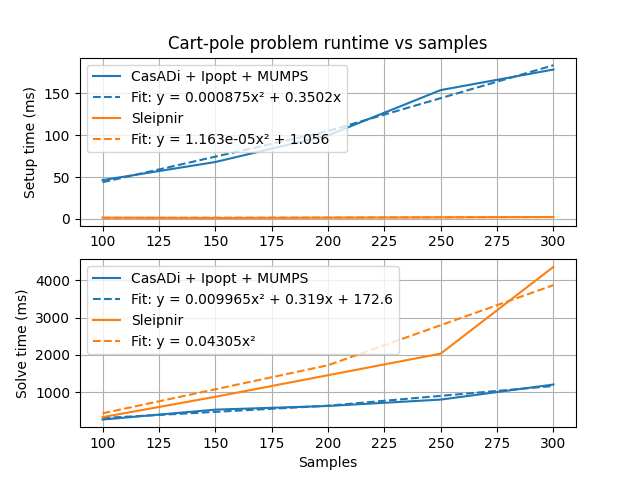
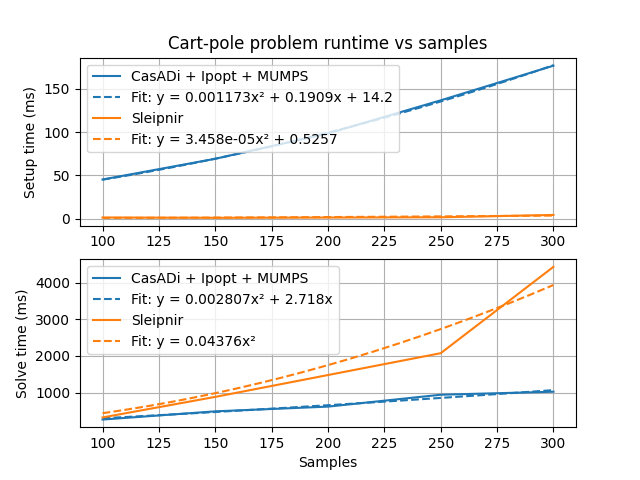
Rerun scalability benchmarks with constant autodiff for flywheel

diff --git a/benchmarks/scalability/util.hpp b/benchmarks/scalability/util.hpp
@@ -32,6 +32,7 @@ constexpr double to_ms(const std::chrono::duration<Rep, Period>& duration) {
 ///
 /// @tparam Problem The optimization problem's type (casadi::Opti or
 ///     slp::Problem).
+/// @tparam IsQuadratic Whether the problem is quadratic.
 /// @param filename Results CSV filename.
 /// @param diagnostics Whether to enable diagnostic prints.
 /// @param T The time horizon of the optimization problem.
@@ -43,7 +44,7 @@ constexpr double to_ms(const std::chrono::duration<Rep, Period>& duration) {
 ///     problem.
 /// @param setup A function that takes a time horizon and number of samples and
 ///     returns an optimization problem instance.
-template <typename Problem>
+template <typename Problem, bool IsQuadratic = false>
 int run_benchmarks_and_log(
     std::string_view filename, bool diagnostics,
     std::chrono::duration<double> T, std::span<int> sample_sizes_to_test,
@@ -70,12 +71,22 @@ int run_benchmarks_and_log(
     bool success = true;
     auto solve_start_time = std::chrono::steady_clock::now();
     if constexpr (std::same_as<Problem, casadi::Opti>) {
-      if (diagnostics) {
-        problem.solver("ipopt");
-      } else {
-        problem.solver("ipopt", {{"expand", true}, {"print_time", 0}},
-                       {{"print_level", 0}, {"sb", "yes"}});
+      casadi::Dict plugin_options{{"expand", true}};
+      casadi::Dict solver_options;
+
+      if constexpr (IsQuadratic) {
+        solver_options["hessian_constant"] = "yes";
+        solver_options["jac_c_constant"] = "yes";
+        solver_options["jac_d_constant"] = "yes";
       }
+
+      if (!diagnostics) {
+        plugin_options["print_time"] = 0;
+        solver_options["print_level"] = 0;
+        solver_options["sb"] = "yes";
+      }
+
+      problem.solver("ipopt", plugin_options, solver_options);
       problem.solve();
     } else {
       success = problem.solve({.diagnostics = diagnostics}) ==

diff --git a/benchmarks/scalability/flywheel/main.cpp b/benchmarks/scalability/flywheel/main.cpp
@@ -36,12 +36,12 @@ int main(int argc, const char* argv[]) {
   std::println("Solving flywheel problem from N = {} to N = {}.",
                sample_sizes_to_test.front(), sample_sizes_to_test.back());
   if (run_casadi) {
-    run_benchmarks_and_log<casadi::Opti>(
+    run_benchmarks_and_log<casadi::Opti, true>(
         "flywheel-scalability-results-casadi.csv", diagnostics, T,
         sample_sizes_to_test, &flywheel_casadi);
   }
   if (run_sleipnir) {
-    run_benchmarks_and_log<slp::Problem<double>>(
+    run_benchmarks_and_log<slp::Problem<double>, true>(
         "flywheel-scalability-results-sleipnir.csv", diagnostics, T,
         sample_sizes_to_test, &flywheel_sleipnir);
   }

diff --git a/benchmarks/plot_scalability_results.py b/benchmarks/plot_scalability_results.py
@@ -43,7 +43,7 @@ def plot_poly_fit(ax, x, y, func, bases, color):
             label += f"{coeffs[i]:.4g}{bases[i]}"
     label = "Fit: y = " + label
 
-    resampled_x = np.arange(x[0], x[-1] + 100, 100)
+    resampled_x = np.arange(x[0], x[-1] + 10, 10)
     ax.plot(
         resampled_x,
         func(resampled_x, *coeffs),

diff --git a/benchmarks/README.md b/benchmarks/README.md
@@ -28,13 +28,38 @@ Generated by [benchmarks/generate-scalability-results.sh](https://github.com/Sle
 * RAM: 64 GB, 5600 MHz DDR5
 * Compiler version: g++ (GCC) 16.1.1 20260430
 
-The following thirdparty software was used in the benchmarks:
+The benchmarks use the following thirdparty software:
 
 * CasADi 3.7.2 (autodiff and NLP solver frontend)
 * Ipopt 3.14.19 (NLP solver backend)
 * MUMPS 5.8.1 (linear solver)
 
 Ipopt uses MUMPS by default because it has free licensing. Commercial linear solvers may be much faster.
+
+The Sleipnir benchmarks use the default options. The CasADi benchmarks specify several problem-specific options to make performance competitive (see the [CasADi plugin](https://web.casadi.org/python-api/#function) and [Ipopt solver](https://coin-or.github.io/Ipopt/OPTIONS.html) option docs). They are summarized below.
+
+CasADi flywheel benchmark options:
+
+|Name|Type|Value|Purpose|
+|----|----|-----|-------|
+|expand|plugin|true|Improve autodiff tree structure|
+|print_time|plugin|0|Don't print information about execution time|
+|hessian_constant|solver|"yes"|Make solver ask for Hessian once and reuse it|
+|jac_c_constant|solver|"yes"|Make solver ask for equality constraint Jacobian once and reuse it|
+|jac_d_constant|solver|"yes"|Make solver ask for inequality constraint Jacobian once and reuse it|
+|print_level|solver|0|Suppress all Ipopt console output|
+|sb|solver|"yes"|Suppress Ipopt header print (undocumented)|
+
+CasADi cart-pole benchmark options:
+
+|Name|Type|Value|Purpose|
+|----|----|-----|-------|
+|expand|plugin|true|Improve autodiff tree structure|
+|print_time|plugin|0|Don't print information about execution time|
+|print_level|solver|0|Suppress all Ipopt console output|
+|sb|solver|"yes"|Suppress Ipopt header print (undocumented)|
+
+`expand` had the largest effect, whereas the constant autodiff options `hessian_constant`, `jac_c_constant`, and `jac_d_constant` had negligible effect.
 
 ## Running the benchmarks
 